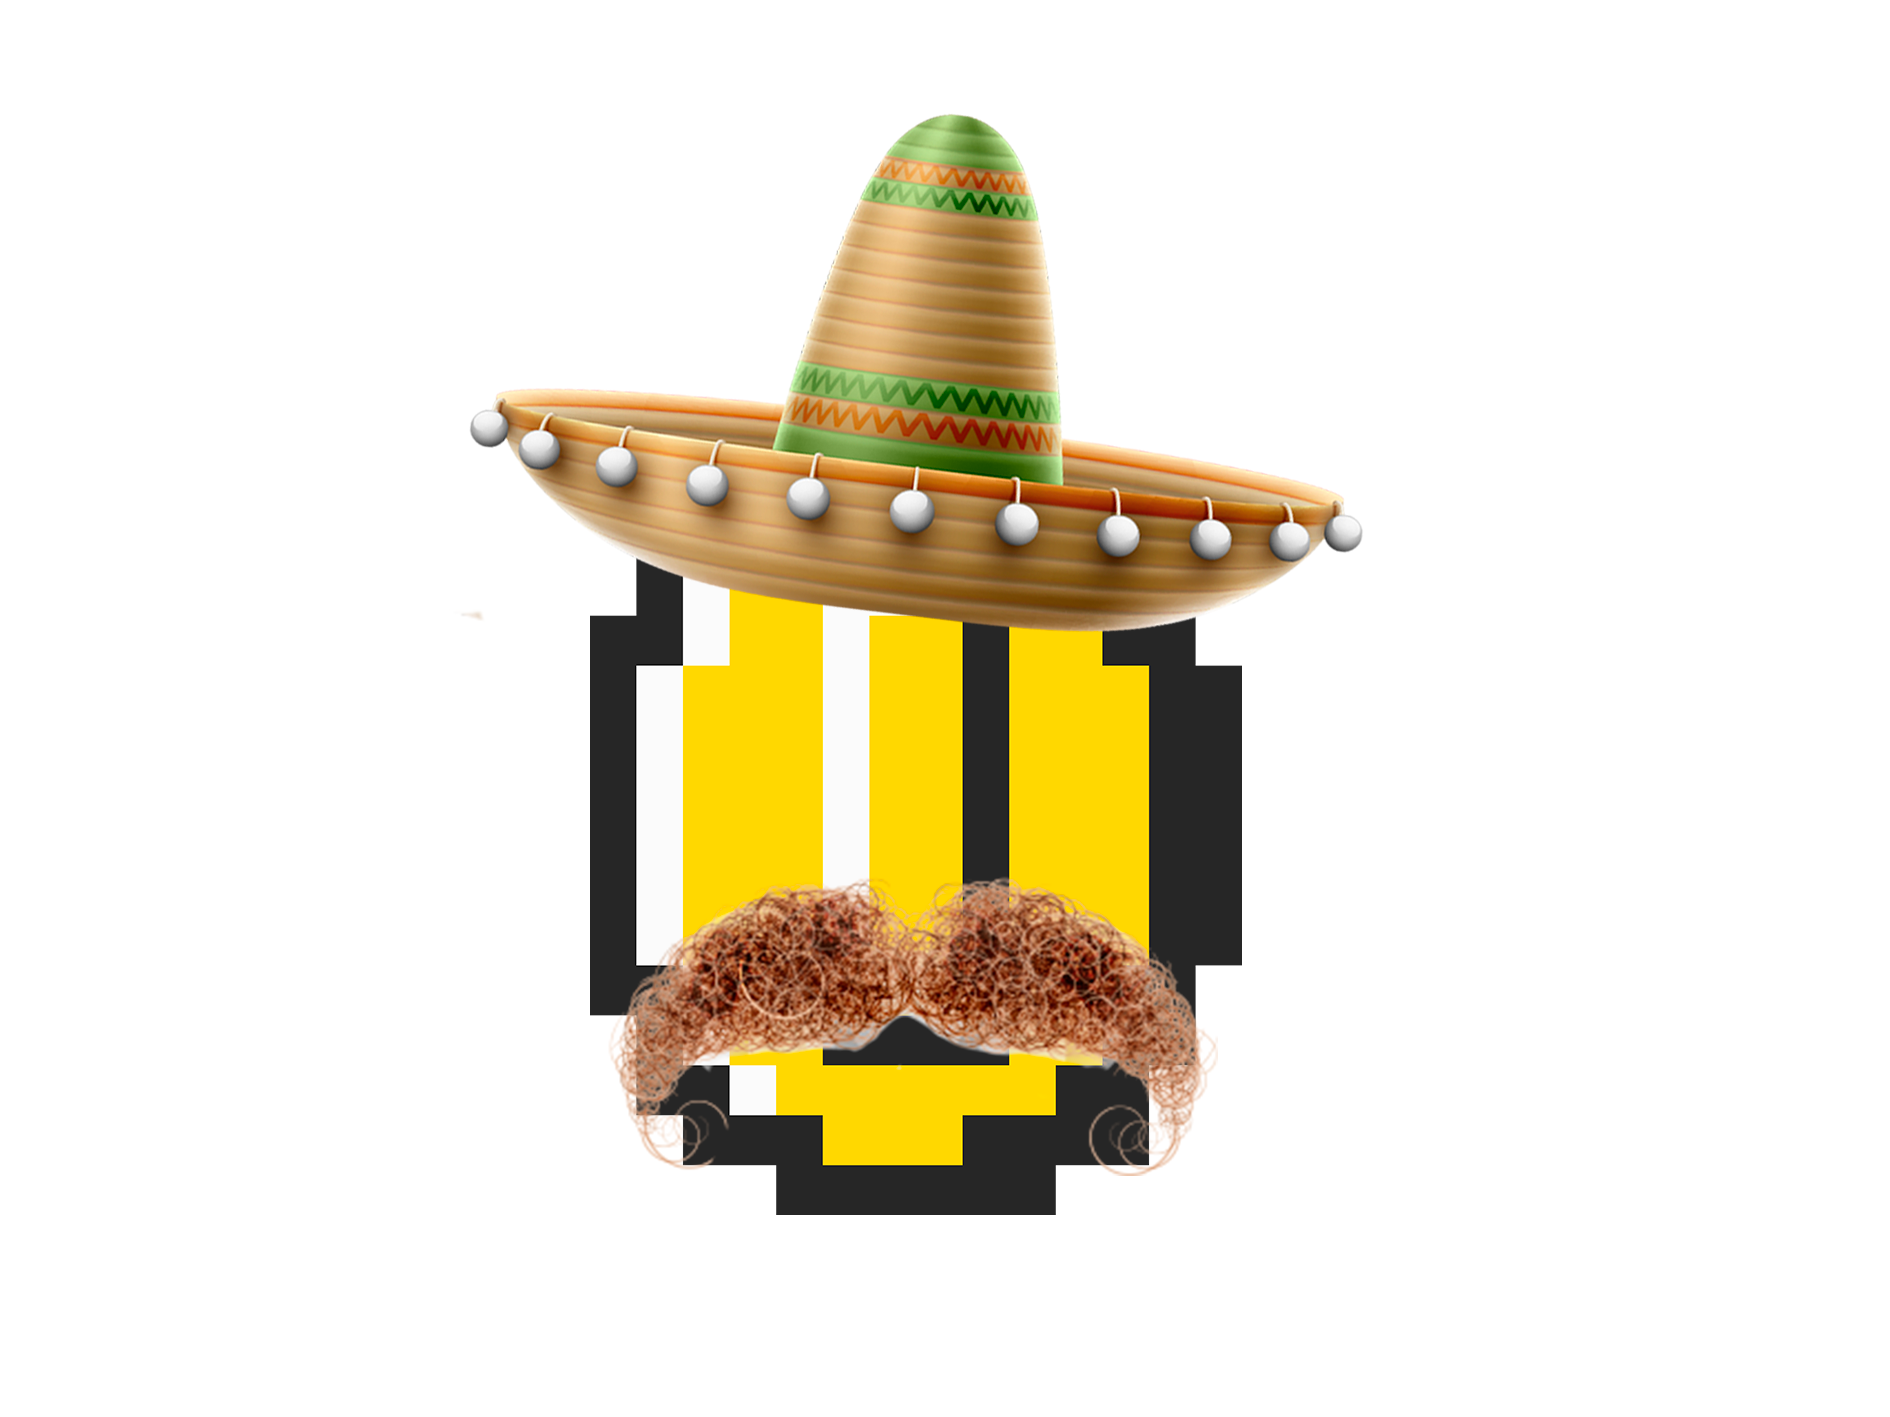
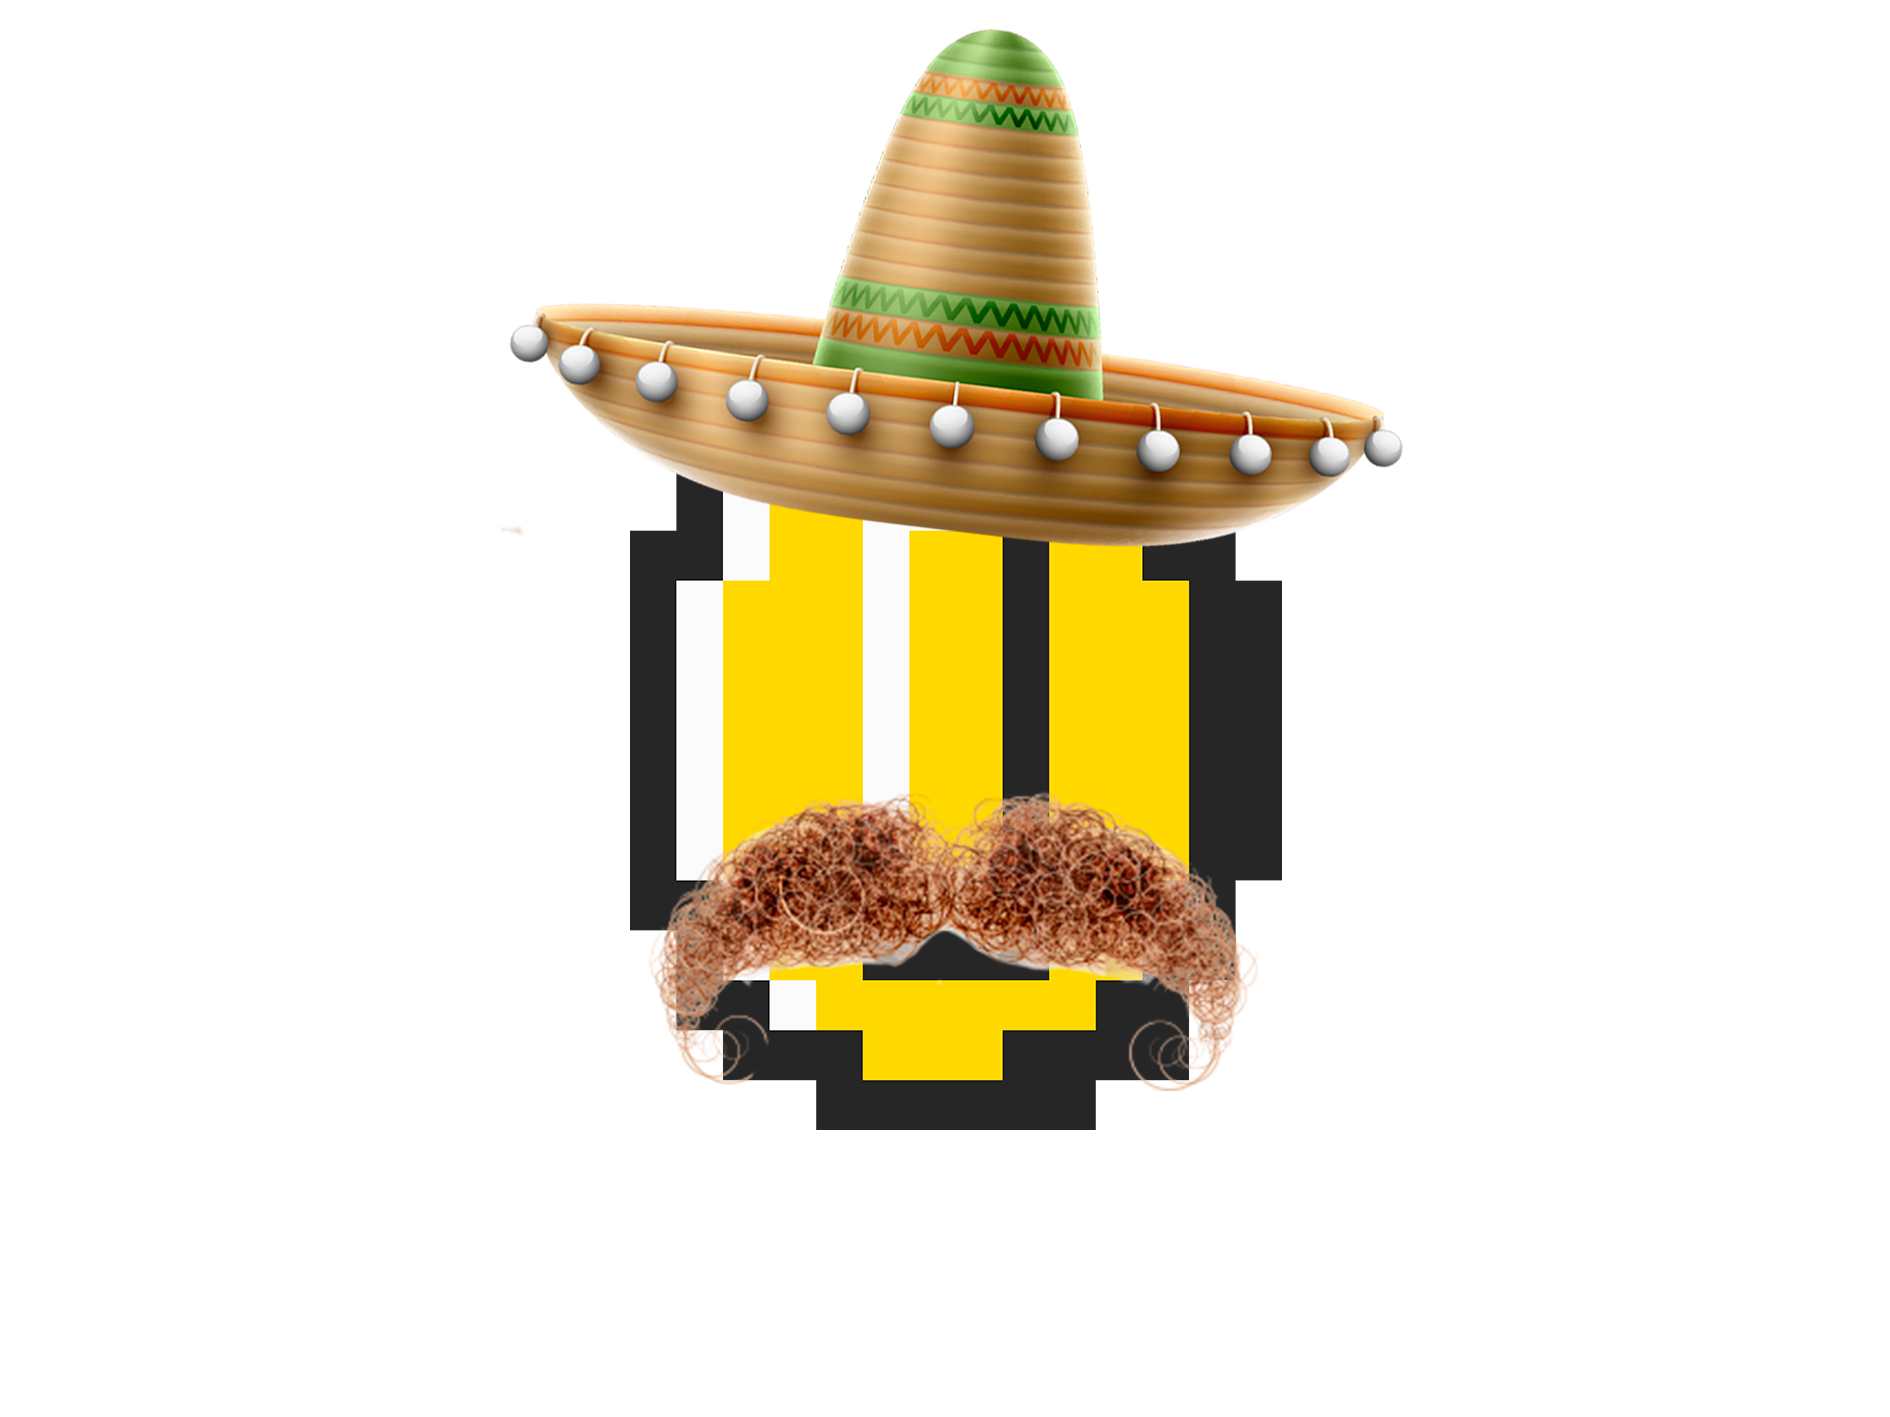
rk

Changed region(s): [[0.2497, 0.0, 0.7492, 0.8694]]

diff --git a/stranica1/index.html b/stranica1/index.html
@@ -55,12 +55,13 @@
       </div>
   
       <div style="border: 2px solid white; border-radius: 20px; width: auto; margin-top: 40px;">
+        <button id="classic" >
+          <image src="imageredact/классик2.png" id="maincoin1" style="width: 300px; height: 220px;" ><p style="padding-bottom: 20px;">Стоимость: 0 $</p></image>
+        </button>
               <button class="mexsik">
                   <img src="imageredact/мексиканский-coin.png"  style="width: 300px; height: 220px;" id="mix">
               </button>
-              <button id="classic" >
-                <image src="imageredact/классик.png" id="maincoin1" style="width: 300px; height: 220px;" ></image>
-              </button>
+             
       </div>
   
   

diff --git a/stranica1/style.css b/stranica1/style.css
@@ -10,8 +10,8 @@
 }
 
 #maincoin1 {
-    max-width: 500px;
-    max-height: 500px;
+    max-width: 300px;
+    max-height: 300px;
 }
 
 .clickersbody {
@@ -32,12 +32,17 @@ flex-direction: column;
 }
 
 #btn {
+ 
+    position: relative;
+    width: 300px;
+    height: 300px;
 cursor: pointer;
 border: none;
 background-color: rgb(39, 37, 37);
 }
 
 .coinbutton {
+    position: relative;
 text-align: center;
 }
 
